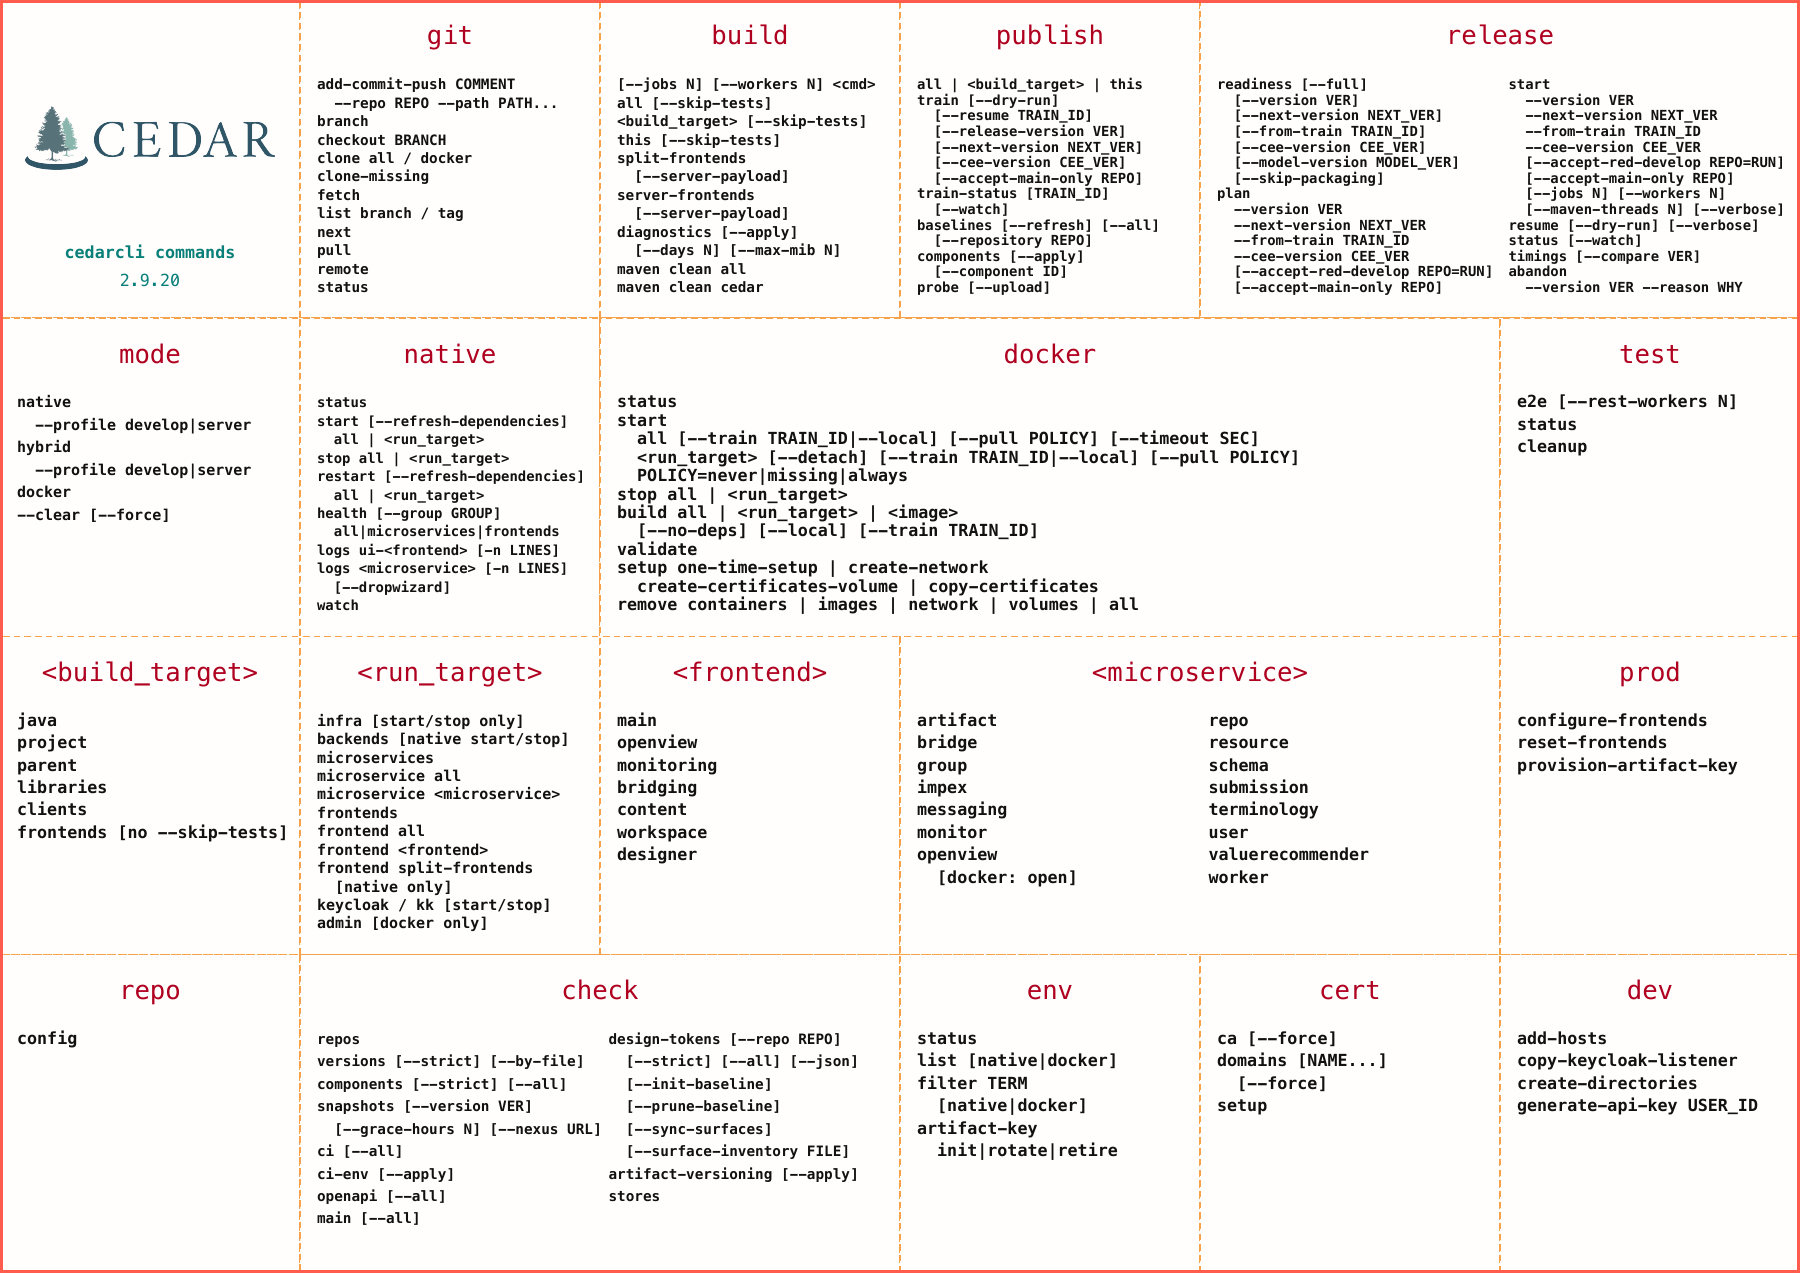
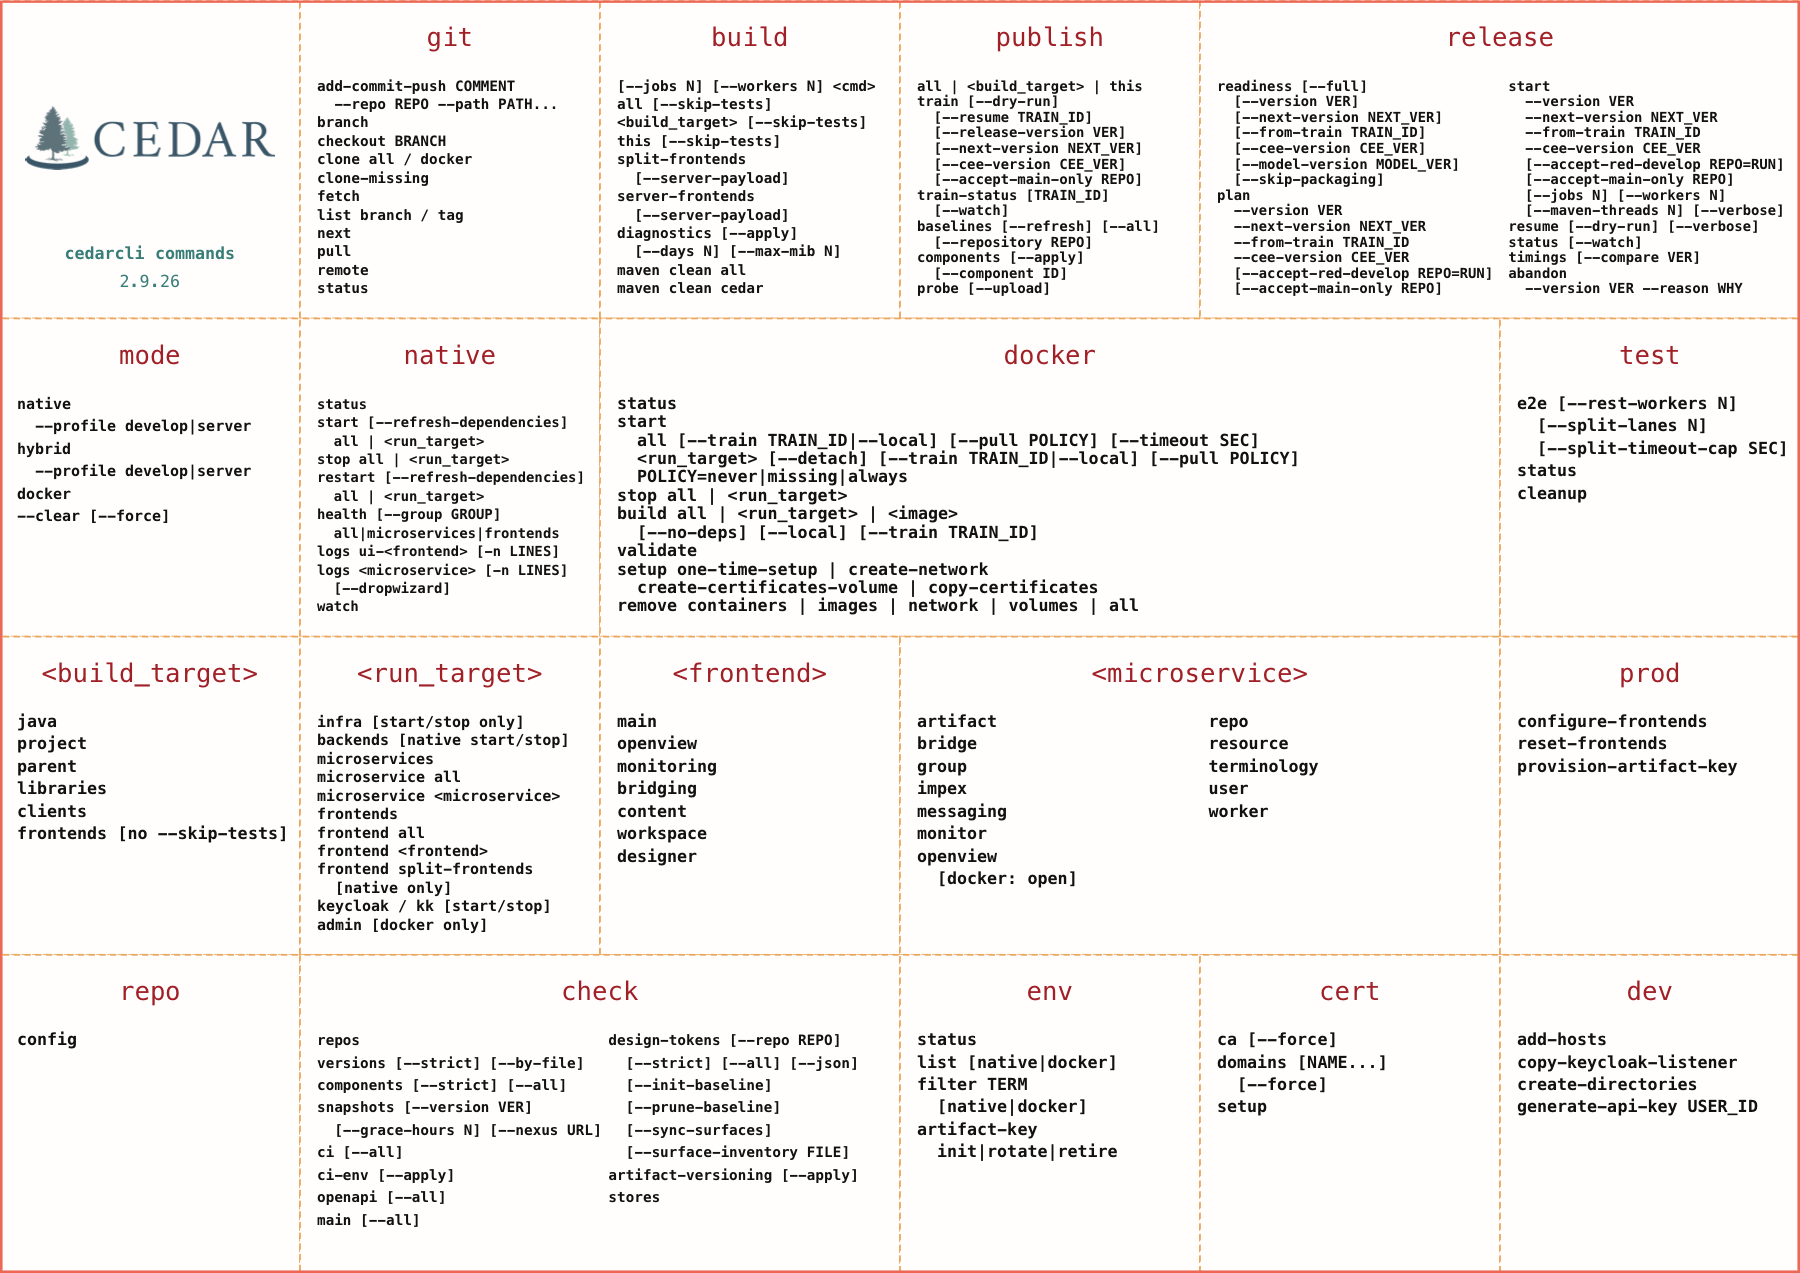
Remove the schema, value recommender and submission servers
They leave the repository, server, subdomain, Docker and release lists, the start, stop and native
controls, and the OpenAPI contract table, which also loses the resource server's rules-index routes.
The Docker train expects 28 core images. The cheatsheet is regenerated from the updated generator.

diff --git a/tests/test_release_train.py b/tests/test_release_train.py
@@ -915,7 +915,7 @@ class ReleasePlannerTest(unittest.TestCase):
                 "image": f"cedar-image-{index:02d}",
                 "reference": f"nexus.example/cedar-image-{index:02d}:{TRAIN}",
             }
-            for index in range(31)
+            for index in range(28)
         ]
         docker_plan = {
             "version": TRAIN,
@@ -1140,7 +1140,7 @@ class ReleasePlannerTest(unittest.TestCase):
     def test_plan_refuses_a_train_without_complete_docker_evidence(self):
         planner = self.make_planner()
         planner.state.values[f"docker/completed/{TRAIN}.json"][0]["images"].pop()
-        with self.assertRaisesRegex(ReleaseError, "31 planned images"):
+        with self.assertRaisesRegex(ReleaseError, "28 planned images"):
             planner.build(
                 release_version="2.9.3",
                 next_version="2.9.4-SNAPSHOT",
@@ -1938,19 +1938,6 @@ class ReleaseVersionPreparationTest(unittest.TestCase):
                     "assets/swagger-api/swagger.yaml"
                 ): "info:\n  version: 2.9.3-SNAPSHOT\n",
             },
-            "cedar-valuerecommender-server": {
-                "pom.xml": (
-                    "<project><version>2.9.3-SNAPSHOT</version></project>\n"
-                ),
-                (
-                    "cedar-valuerecommender-server-application/src/main/resources/"
-                    "assets/swagger-api/swagger.json"
-                ): '{"info":{"version" : "2.9.3-SNAPSHOT"}}\n',
-                (
-                    "cedar-valuerecommender-server-application/src/main/resources/"
-                    "assets/swagger-api/swagger.yaml"
-                ): "info:\n  version: 2.9.3-SNAPSHOT\n",
-            },
             "cedar-template-editor": {},
             "cedar-development": {
                 "bin/util/set-env-generic.sh": f"export CEDAR_VERSION={source_version}\n",
@@ -2026,7 +2013,6 @@ class ReleaseVersionPreparationTest(unittest.TestCase):
                     "maven-repo",
                     "cedar-resource-server",
                     "cedar-terminology-server",
-                    "cedar-valuerecommender-server",
                 ],
                 "frontendPreparation": {
                     "workspace": str(release_workspace),
@@ -2129,31 +2115,6 @@ class ReleaseVersionPreparationTest(unittest.TestCase):
                     release_workspace / "cedar-resource-server"
                 ).as_posix(),
                 result["release"]["repositories"]["cedar-resource-server"][
-                    "changedFiles"
-                ],
-            )
-            release_valuerecommender_swagger = (
-                release_workspace / "cedar-valuerecommender-server"
-                / "cedar-valuerecommender-server-application/src/main/resources/assets/"
-                "swagger-api/swagger.yaml"
-            )
-            next_valuerecommender_swagger = (
-                next_workspace / "cedar-valuerecommender-server"
-                / "cedar-valuerecommender-server-application/src/main/resources/assets/"
-                "swagger-api/swagger.json"
-            )
-            self.assertIn(
-                "version: 2.9.3", release_valuerecommender_swagger.read_text()
-            )
-            self.assertIn(
-                '"version" : "2.9.4-SNAPSHOT"',
-                next_valuerecommender_swagger.read_text(),
-            )
-            self.assertIn(
-                release_valuerecommender_swagger.relative_to(
-                    release_workspace / "cedar-valuerecommender-server"
-                ).as_posix(),
-                result["release"]["repositories"]["cedar-valuerecommender-server"][
                     "changedFiles"
                 ],
             )
@@ -4766,7 +4727,7 @@ class ReleasePreflightTest(unittest.TestCase):
             [], self._preflight(commands=commands, manifest=manifest).check_develop_is_green())
 
     def test_an_undeclared_generated_swagger_file_is_found_before_the_build(self):
-        """This is the valuerecommender failure, reached without spending a build."""
+        """An undeclared generated file once failed a release after its build. This finds it first."""
         with tempfile.TemporaryDirectory() as directory:
             self._checked_out(directory, "cedar-undeclared-server", files={
                 "cedar-undeclared-server-application/src/main/resources/assets/"

diff --git a/org/metadatacenter/util/OpenApiContract.py b/org/metadatacenter/util/OpenApiContract.py
@@ -42,13 +42,11 @@ STRUCTURED_MEDIA_SUFFIXES = ('json', 'yaml')
 # A 204 says there is no payload, so it is the one 2xx that describes itself by staying empty.
 NO_CONTENT_STATUS = '204'
 
-# Services excluded from the OpenAPI audit, and left out of this check for the same reason. These
-# three are legacy. They still answer requests, and their documents receive no further work, so
-# failing on them would report a gap nobody intends to close.
+# Services excluded from the OpenAPI audit, and left out of this check for the same reason. The
+# impex server is legacy. It still answers requests, and its document receives no further work, so
+# failing on it would report a gap nobody intends to close.
 SKIPPED_REPOSITORIES = {
     'cedar-impex-server': 'legacy service excluded from the audit',
-    'cedar-submission-server': 'legacy service excluded from the audit',
-    'cedar-valuerecommender-server': 'legacy service excluded from the audit',
 }
 
 # Write operations whose handler reads no request body, so a document that declares none for them is
@@ -64,12 +62,8 @@ BODILESS_WRITES = {
         'rotates the secret of the key named in the path and returns the user',
     ('cedar-worker-server', 'POST', '/command/regenerate-inclusion-subgraph'):
         'starts the one regeneration job the service runs and returns that job',
-    ('cedar-resource-server', 'POST', '/command/generate-empty-rules-index'):
-        'starts an index job whose only input is the index it claims',
     ('cedar-resource-server', 'POST', '/command/generate-empty-search-index'):
         'starts an index job whose only input is the index it claims',
-    ('cedar-resource-server', 'POST', '/command/reset-rules-index-job'):
-        'releases the rules index claim and returns the resulting status',
     ('cedar-resource-server', 'POST', '/command/reset-search-index-job'):
         'releases the search index claim and returns the resulting status',
     ('cedar-resource-server', 'POST', '/command/reset-valuesets-import'):

diff --git a/org/metadatacenter/config/ReposFactory.py b/org/metadatacenter/config/ReposFactory.py
@@ -30,12 +30,8 @@ class ReposFactory:
         repos.add_repo(Repo("cedar-messaging-server", RepoType.JAVA, [V.POM_OWN, V.POM_PARENT], is_microservice=True))
         repos.add_repo(Repo("cedar-repo-server", RepoType.JAVA, [V.POM_OWN, V.POM_PARENT], is_microservice=True))
         repos.add_repo(Repo("cedar-resource-server", RepoType.JAVA, [V.POM_OWN, V.POM_PARENT], is_microservice=True))
-        repos.add_repo(Repo("cedar-schema-server", RepoType.JAVA, [V.POM_OWN, V.POM_PARENT], is_microservice=True))
-        repos.add_repo(Repo("cedar-submission-server", RepoType.JAVA, [V.POM_OWN, V.POM_PARENT], is_microservice=True))
         repos.add_repo(Repo("cedar-terminology-server", RepoType.JAVA, [V.POM_OWN, V.POM_PARENT], is_microservice=True))
         repos.add_repo(Repo("cedar-user-server", RepoType.JAVA, [V.POM_OWN, V.POM_PARENT], is_microservice=True))
-        repos.add_repo(Repo("cedar-valuerecommender-server", RepoType.JAVA,
-                            [V.POM_OWN, V.POM_PARENT], is_microservice=True))
         repos.add_repo(Repo("cedar-worker-server", RepoType.JAVA, [V.POM_OWN, V.POM_PARENT], is_microservice=True))
         repos.add_repo(Repo("cedar-monitor-server", RepoType.JAVA, [V.POM_OWN, V.POM_PARENT], is_microservice=True))
         repos.add_repo(Repo("cedar-openview-server", RepoType.JAVA, [V.POM_OWN, V.POM_PARENT], is_microservice=True))

diff --git a/org/metadatacenter/release_support/policy.py b/org/metadatacenter/release_support/policy.py
@@ -155,14 +155,6 @@ MAVEN_GENERATED_VERSION_FILES = {
             "version: {}"
         ),
     },
-    "cedar-submission-server": {
-        "cedar-submission-server-application/src/main/resources/assets/swagger-api/swagger.json": (
-            '"version" : "{}"'
-        ),
-        "cedar-submission-server-application/src/main/resources/assets/swagger-api/swagger.yaml": (
-            "version: {}"
-        ),
-    },
     "cedar-user-server": {
         "cedar-user-server-application/src/main/resources/assets/swagger-api/swagger.json": (
             '"version" : "{}"'
@@ -192,14 +184,6 @@ MAVEN_GENERATED_VERSION_FILES = {
             '"version" : "{}"'
         ),
         "cedar-terminology-server-application/src/main/resources/assets/swagger-api/swagger.yaml": (
-            "version: {}"
-        ),
-    },
-    "cedar-valuerecommender-server": {
-        "cedar-valuerecommender-server-application/src/main/resources/assets/swagger-api/swagger.json": (
-            '"version" : "{}"'
-        ),
-        "cedar-valuerecommender-server-application/src/main/resources/assets/swagger-api/swagger.yaml": (
             "version: {}"
         ),
     },

diff --git a/org/metadatacenter/train_support/status.py b/org/metadatacenter/train_support/status.py
@@ -63,7 +63,7 @@ def _workflow_summary(payload):
     return (
         f'Workflow {workflow_state} | Maven {one(maven)} | '
         f'npm {_group_summary(npm, 3)} | Docker plan {one(docker_plan)} | '
-        f'images {_group_summary(docker, 31)} | verify {one(verify)}'
+        f'images {_group_summary(docker, 28)} | verify {one(verify)}'
     )
 
 
@@ -135,7 +135,7 @@ def _render_recovery(version, records, workflow):
     active = workflow and workflow.get('status') in {'queued', 'in_progress', 'waiting', 'pending'}
     if state.get('Docker') == 'recorded':
         _output_component.console.print('[green]Decision: complete; do not resume or abandon this train.[/green]')
-        _output_component.console.print('Publication: Maven, npm, and all 31 Docker images are verified.')
+        _output_component.console.print('Publication: Maven, npm, and all 28 Docker images are verified.')
         return True
     if active:
         _output_component.console.print('[yellow]Decision: still running; do not dispatch another train.[/yellow]')

diff --git a/tests/test_build_train.py b/tests/test_build_train.py
@@ -289,7 +289,7 @@ class BuildTrainTest(unittest.TestCase):
                     'javaBase': ['java'],
                     'microserviceBase': ['microservice'],
                     'infrastructure': [f'infra-{index}' for index in range(7)],
-                    'microservices': [f'server-{index}' for index in range(21)],
+                    'microservices': [f'server-{index}' for index in range(18)],
                     'frontends': ['frontend-main'],
                 },
             }), encoding='utf-8')
@@ -497,7 +497,7 @@ class BuildTrainTest(unittest.TestCase):
 
         self.assertEqual(0, result.exit_code, result.output)
         self.assertIn('npm 1/3 done', result.output)
-        self.assertIn('images 1/31 done', result.output)
+        self.assertIn('images 1/28 done', result.output)
         self.assertIn('Decision: complete; do not resume or abandon', result.output)
         sleep.assert_called_once_with(10)
 

diff --git a/tests/test_integration_tags.py b/tests/test_integration_tags.py
@@ -96,13 +96,13 @@ public abstract class AbstractServerTest {
         self.assertEqual([], self.names())
 
     def test_a_mention_in_a_comment_starts_nothing(self):
-        write(self.root, 'ContractTest', '''/** The routes {@link SubmissionAnswerMatrixTest} boots with DropwizardAppExtension. */
+        write(self.root, 'ContractTest', '''/** The routes {@link RouteMatrixTest} boots with DropwizardAppExtension. */
 public class ContractTest {
   // A RedisServer is not needed here.
   @Test void reads() {}
 }''')
-        write(self.root, 'SubmissionAnswerMatrixTest',
-              SERVER_SUITE.format(tag='@Tag("integration")\n', name='SubmissionAnswerMatrixTest'))
+        write(self.root, 'RouteMatrixTest',
+              SERVER_SUITE.format(tag='@Tag("integration")\n', name='RouteMatrixTest'))
         report = scan(self.root)
         self.assertEqual((1, []), (report.integration, report.findings))
 

diff --git a/org/metadatacenter/worker/DevWorker.py b/org/metadatacenter/worker/DevWorker.py
@@ -38,9 +38,8 @@ class DevWorker(Worker):
             'log/frontend-workspace', 'log/frontend-designer',
             'log/server-artifact', 'log/server-auth', 'log/server-bridge', 'log/server-group',
             'log/server-impex', 'log/server-messaging', 'log/server-monitor', 'log/server-open',
-            'log/server-repo', 'log/server-resource', 'log/server-schema',
-            'log/server-submission', 'log/server-terminology', 'log/server-user',
-            'log/server-valuerecommender', 'log/server-worker', 'log/cadsr-tools', 'log/nginx',
+            'log/server-repo', 'log/server-resource', 'log/server-terminology', 'log/server-user',
+            'log/server-worker', 'log/cadsr-tools', 'log/nginx',
         ]
         for relative_path in relative_paths:
             (cedar_home / relative_path).mkdir(parents=True, exist_ok=True)

diff --git a/org/metadatacenter/train_support/preflight.py b/org/metadatacenter/train_support/preflight.py
@@ -90,8 +90,8 @@ def _configuration_summary():
         if not images or len(images) != len(set(images)) or any(not image for image in images):
             raise ValueError(f'Docker train {group} images must be present and unique')
         ordered_images.extend(images)
-    if len(ordered_images) != 31 or len(set(ordered_images)) != 31:
-        raise ValueError('Docker train must contain 31 unique core images')
+    if len(ordered_images) != 28 or len(set(ordered_images)) != 28:
+        raise ValueError('Docker train must contain 28 unique core images')
     if {item['image'] for item in frontends} != set(groups['frontends']):
         raise ValueError('frontend and Docker train image sets differ')
     return len(repositories), model, cee, len(frontends), len(additional)

diff --git a/org/metadatacenter/start_microservice.py b/org/metadatacenter/start_microservice.py
@@ -64,16 +64,6 @@ def microservice_resource():
     exit_on_failure(StartMicroserviceWorker.resource())
 
 
-@app.command("schema")
-def microservice_schema():
-    exit_on_failure(StartMicroserviceWorker.schema())
-
-
-@app.command("submission")
-def microservice_submission():
-    exit_on_failure(StartMicroserviceWorker.submission())
-
-
 @app.command("terminology")
 def microservice_terminology():
     exit_on_failure(StartMicroserviceWorker.terminology())
@@ -82,11 +72,6 @@ def microservice_terminology():
 @app.command("user")
 def microservice_user():
     exit_on_failure(StartMicroserviceWorker.user())
-
-
-@app.command("valuerecommender")
-def microservice_valuerecommender():
-    exit_on_failure(StartMicroserviceWorker.valuerecommender())
 
 
 @app.command("worker")

diff --git a/org/metadatacenter/stop_microservice.py b/org/metadatacenter/stop_microservice.py
@@ -64,16 +64,6 @@ def microservice_resource():
     exit_on_failure(StopMicroserviceWorker.resource())
 
 
-@app.command("schema")
-def microservice_schema():
-    exit_on_failure(StopMicroserviceWorker.schema())
-
-
-@app.command("submission")
-def microservice_submission():
-    exit_on_failure(StopMicroserviceWorker.submission())
-
-
 @app.command("terminology")
 def microservice_terminology():
     exit_on_failure(StopMicroserviceWorker.terminology())
@@ -82,11 +72,6 @@ def microservice_terminology():
 @app.command("user")
 def microservice_user():
     exit_on_failure(StopMicroserviceWorker.user())
-
-
-@app.command("valuerecommender")
-def microservice_valuerecommender():
-    exit_on_failure(StopMicroserviceWorker.valuerecommender())
 
 
 @app.command("worker")

diff --git a/org/metadatacenter/release_support/planning.py b/org/metadatacenter/release_support/planning.py
@@ -314,10 +314,10 @@ class ReleasePlanner:
         planned_names = [item.get("image") for item in planned if isinstance(item, dict)]
         verified_names = [item.get("image") for item in verified if isinstance(item, dict)]
         if (
-            len(planned_names) != 31 or len(set(planned_names)) != 31
+            len(planned_names) != 28 or len(set(planned_names)) != 28
             or verified_names != planned_names
         ):
-            raise ReleaseError("Docker train is not complete for all 31 planned images")
+            raise ReleaseError("Docker train is not complete for all 28 planned images")
         for item in verified:
             if not re.fullmatch(r"sha256:[0-9a-f]{64}", item.get("digest", "")):
                 raise ReleaseError(
